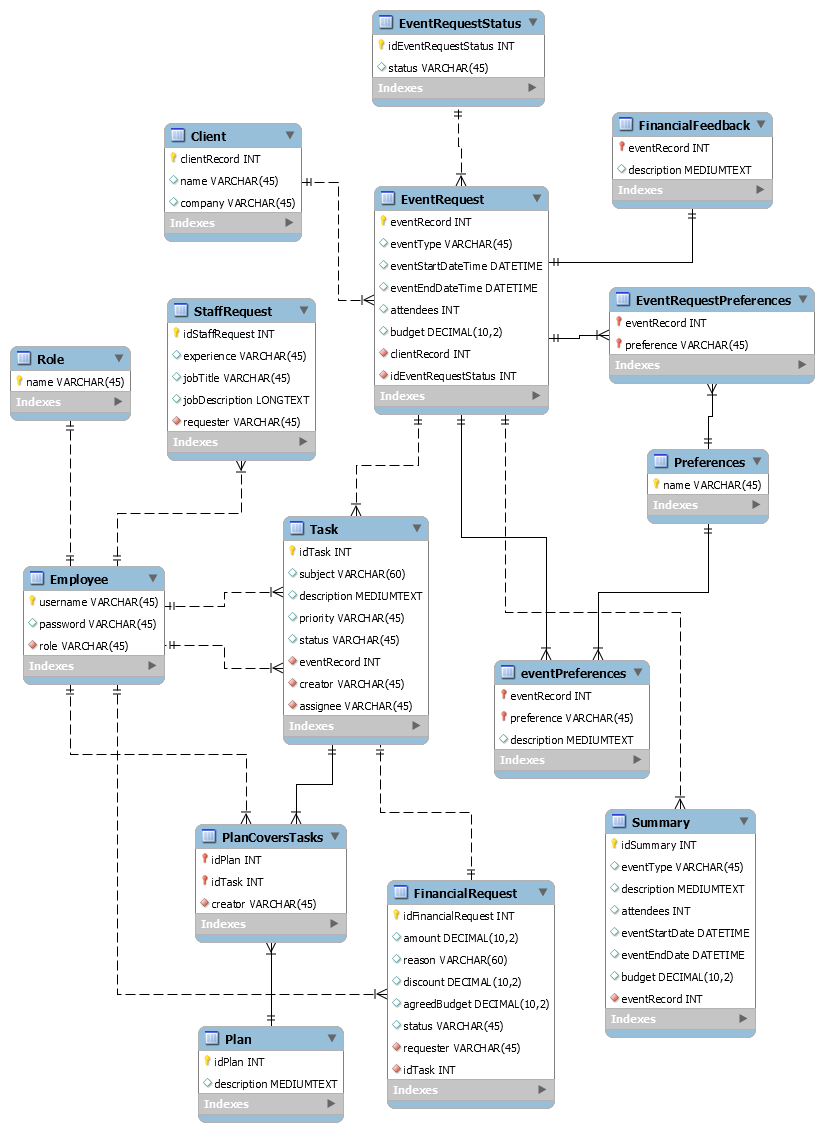
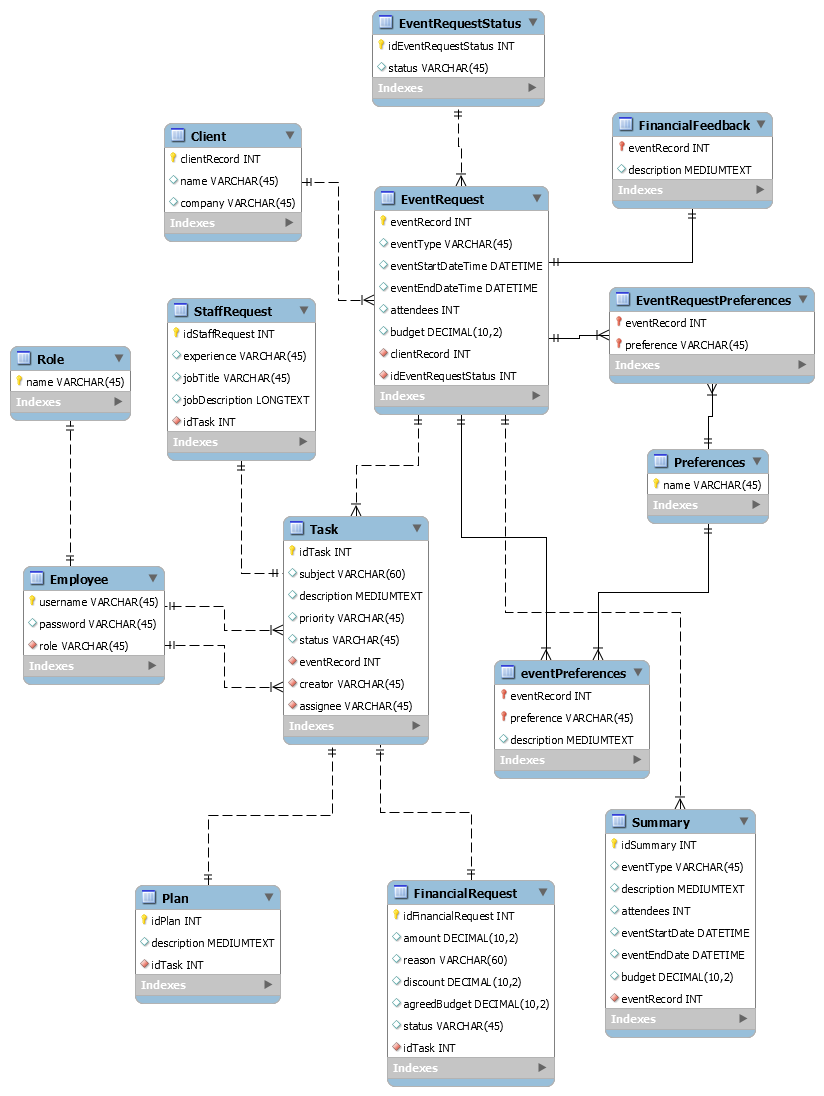
More changes and correction of CSO
Corrected what was needed. should work now. 
+ changes in db

diff --git a/app/js/cso.js b/app/js/cso.js
@@ -16,11 +16,11 @@ function validate() {
     start = document.getElementById("from").value;
     end = document.getElementById("to").value;
     att = document.getElementById("attendees").value;
-    dec = document.getElementById("decorations").value;
-    par = document.getElementById("parties").value;
-    ph = document.getElementById("photos").value;
-    br = document.getElementById("breakfast").value;
-    dr = document.getElementById("drinks").value;
+    dec = document.getElementById("decorations").checked;
+    par = document.getElementById("parties").checked;
+    ph = document.getElementById("photos").checked;
+    br = document.getElementById("breakfast").checked;
+    dr = document.getElementById("drinks").checked;
     budget = document.getElementById("budget").value;
     status = "created"; //event request status
     makeRequest('php/createEventRequest.php'); //to be changed for a php file

diff --git a/app/cso.html b/app/cso.html
@@ -104,7 +104,7 @@
                         <div class="col-md-4">
                             <div class="radio">
                                 <label>
-                                    <input type="checkbox" id="decorations"/> Decorations
+                                    <input type="checkbox" id="decorations" /> Decorations
                                 </label>
                             </div>
                             <div class="radio">

diff --git a/app/php/createEventRequest.php b/app/php/createEventRequest.php
@@ -1,7 +1,7 @@
 
 <?php
 require_once 'connection.php';
-$clientRecord = (isset($_POST['clientRecord'])) ? $_POST['clientRecord'] : 0;
+$clientRecord = (isset($_POST['clientRecord'])) ? $_POST['clientRecord'] : 1;
 $eventType = (isset($_POST['eventType'])) ? $_POST['eventType'] : null;
 $eventStartDateTime = (isset($_POST['eventStartDateTime'])) ? $_POST['eventStartDateTime'] : null;
 $decorations = (isset($_POST['decorations'])) ? $_POST['decorations'] : null;
@@ -15,7 +15,7 @@ $wifi = (isset($_POST['wifi'])) ? $_POST['wifi'] : null;
 $budget = (isset($_POST['budget'])) ? $_POST['budget'] : 0;
 $idEventRequestStatus = 1;
 $username = (isset($_POST['username'])) ? $_POST['username'] : "sarah";
-$onValue = "on";
+$onValue = "true";
 
 //execute
 $sql = "INSERT INTO eventrequest (eventType, eventStartDateTime, eventEndDateTime, attendees, budget, clientRecord, idEventRequestStatus) ".
@@ -65,19 +65,5 @@ if ($result == -1) {
     close();
     echo json_encode($array);
 }
-/*
-if ($result == -1) {
-    echo "failure";
-} else {
-    $sql = "INSERT INTO eventrequestpreferences (eventRecord, preference)
-            VALUES (".$result.", '".$decorations."');";
-    $result = modify($sql);
-    $result = modify($sql);
-    $result = modify($sql);
-    $result = modify($sql);
-    $result = modify($sql);
 
-
-    echo "success";
-}*/
 ?>

diff --git a/app/php/createStaffRequest.php b/app/php/createStaffRequest.php
@@ -1,0 +1,24 @@
+<?php
+
+require_once 'connection.php';
+$username = (isset($_POST['username'])) ? $_POST['username'] : 'jack';
+$jobTitle = (isset($_POST['jobTitle'])) ? $_POST['jobTitle'] : null;
+$jobDescription = (isset($_POST['jobDescription'])) ? $_POST['jobDescription'] : null;
+$experience = (isset($_POST['experience'])) ? $_POST['experience'] : null;
+$eventRecord = (isset($_POST['eventRecord'])) ? $_POST['eventRecord'] : 0;
+
+
+$sql ="INSERT INTO `task` (`subject`, `description`, `priority`, `status`, `eventRecord`, `creator`, `assignee`)"
+    . " VALUES ('Staff request', 'More details by clicking.', 'high', 'created', ".$eventRecord.", '".$username."', 'simon');";
+$result = modify($sql);
+if ($result == -1) {
+    $array = ["result" => "failure"];
+} else {
+    $sql = "INSERT INTO `staffrequest` (`experience`, `jobTitle`, `jobDescription`, `idTask`) "
+        ."VALUES ('".$experience."', '".$jobTitle."', '".$jobDescription."', '".$result."');";
+    modify($sql);
+    $array = ["result" => "success"];
+}
+close();
+echo json_encode($array);
+?>
